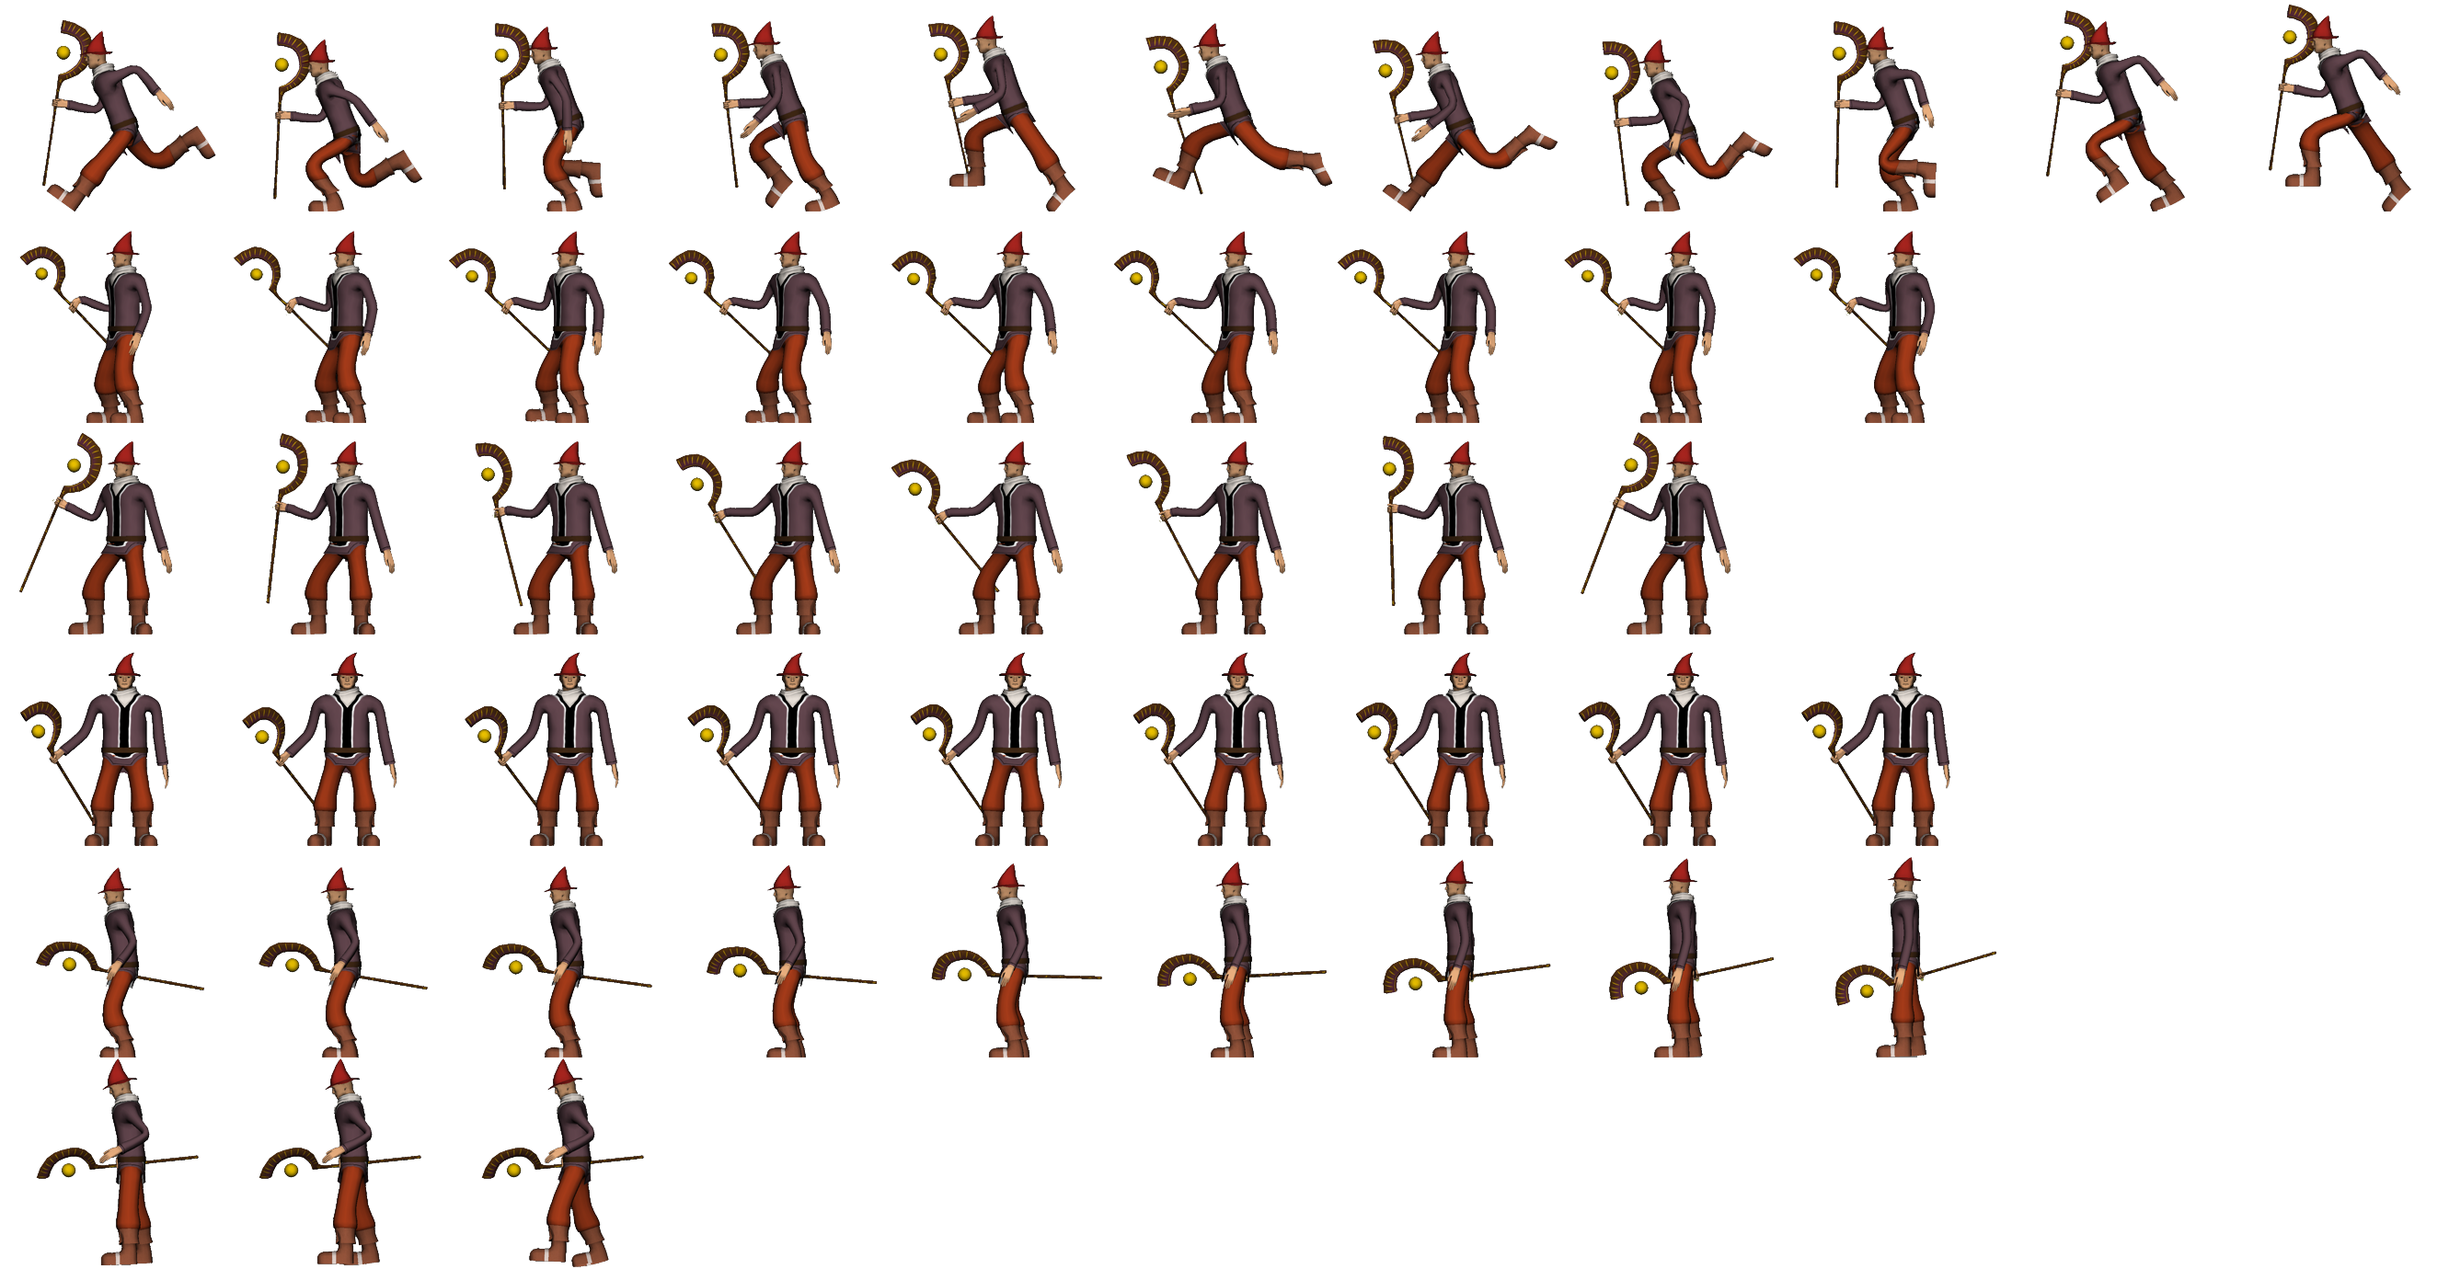
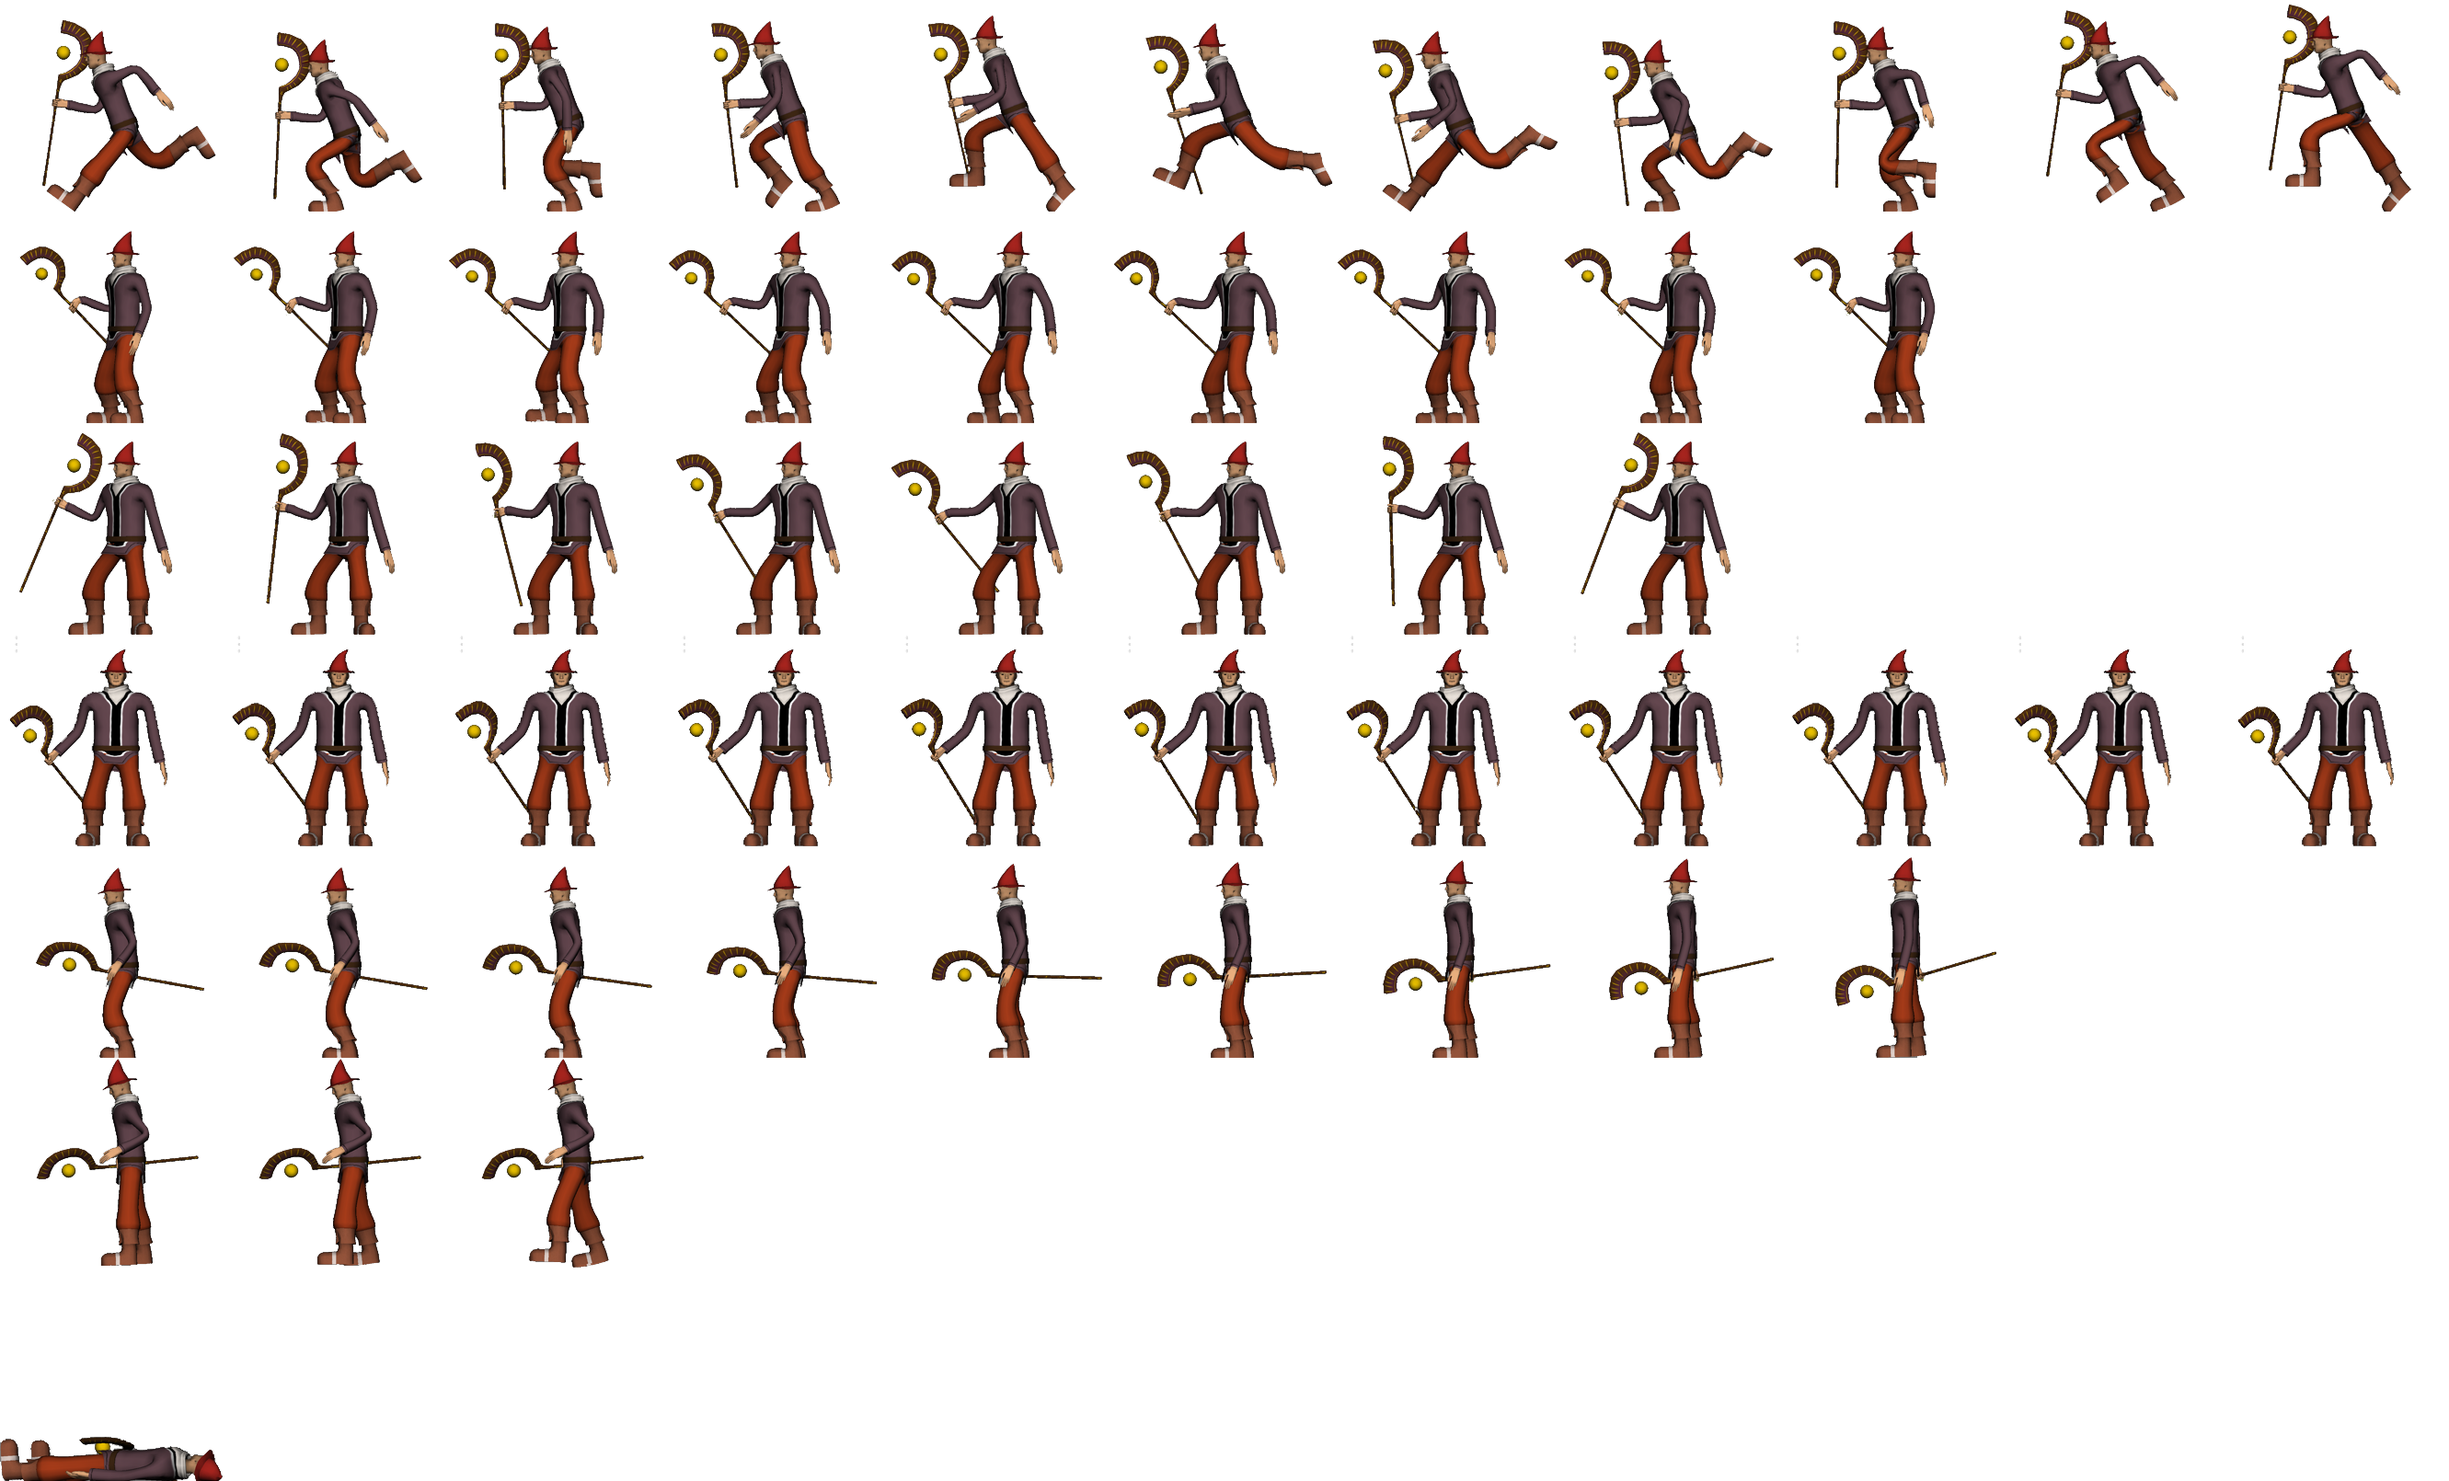
Updated mage animations, did UI, made projectiles not push things around, fixed an animation error with walking, did yeah

diff --git a/code/entities/PlayerCharacter.cs b/code/entities/PlayerCharacter.cs
@@ -21,6 +21,9 @@ namespace ForbiddenArtsGame.code.entities
 		double coolDownEnd;
 		Dictionary<string, Animation> sprites;
 		string currentSpriteName;
+		TimeSpan nextAttackAvailable;
+		Texture2D HealthSheet;
+		Texture2D SpellSheet;
 
 		public PlayerCharacter() : this(Vector2.Zero) {
 		}
@@ -37,10 +40,24 @@ namespace ForbiddenArtsGame.code.entities
 			sprites.Add("melee", new MageMelee());
 			sprites.Add("walk", new MageWalk());
 			SetCurrentAnimation("idle");
+
+			nextAttackAvailable = new TimeSpan(0);
+
+			HealthSheet = SheetHandler.getSheet("healthsheet");
+			SpellSheet = SheetHandler.getSheet("spelluisheet");
 		}
 
 		public override void Update(Microsoft.Xna.Framework.GameTime gameTime)
 		{
+			if (dead)
+			{
+				return;
+			}
+			if (health <= 0)
+			{
+				dead = true;
+				currentSprite = new MageDead();
+			}
 			base.Update(gameTime);
 			KeyboardState keyboard = Keyboard.GetState();
 
@@ -57,12 +74,10 @@ namespace ForbiddenArtsGame.code.entities
 				if (keyboard.IsKeyDown(Settings.keyMoveLeft))
 				{
 					this.Move(new Vector2(-0.7f, 0));
-					SetCurrentAnimation("walk");
 				}
 				if (keyboard.IsKeyDown(Settings.keyMoveRight))
 				{
                     this.Move(new Vector2(0.7f, 0));
-					SetCurrentAnimation("walk");
 				}
 				if (keyboard.IsKeyDown(Settings.keyJump) && onGround)
 				{
@@ -95,13 +110,17 @@ namespace ForbiddenArtsGame.code.entities
 			}
 			else
 			{
-				if (velocity.Length() <= 1)
+				if (velocity.Length() > 0.5f && currentSpriteName == "idle")
+				{
+					SetCurrentAnimation("walk");
+				}
+				else if (velocity.Length() <= 0.5f && currentSpriteName == "walk")
 				{
 					SetCurrentAnimation("idle");
 				}
 				else
 				{
-					if (((Animation)currentSprite).cycleNum >= 1)
+					if (((Animation)currentSprite).cycleNum >= 1 && currentSpriteName != "walk")
 						SetCurrentAnimation("idle");
 				}
 			}
@@ -122,6 +141,8 @@ namespace ForbiddenArtsGame.code.entities
 
 		protected virtual void Attack(GameTime gameTime)
 		{
+			if (gameTime.TotalGameTime < nextAttackAvailable)
+				return;
 			Vector2 projLoc;
 			Vector2 projVel;
 			if (Keyboard.GetState().IsKeyDown(Settings.keyMoveLeft))
@@ -141,6 +162,7 @@ namespace ForbiddenArtsGame.code.entities
 			}
 			toBeAdded.Add(new MeleeProjectile(projLoc, projVel, this));
 			SetCurrentAnimation("melee");
+			nextAttackAvailable = gameTime.TotalGameTime + new TimeSpan(0, 0, 1);
 		}
 
 		protected virtual void Cast(int spellButton)
@@ -168,6 +190,16 @@ namespace ForbiddenArtsGame.code.entities
 			return false;
 		}
 
-		
+		public override void Draw(GameTime gameTime)
+		{
+			base.Draw(gameTime);
+
+			Settings.spriteBatch.Draw(HealthSheet, new Rectangle(0, 0, 145, 156), new Rectangle(0, 0, 145, 156), Color.White);//background thing
+			Settings.spriteBatch.Draw(HealthSheet, new Rectangle(0, 27, 145, 126 * (health / 100)), new Rectangle(145, 27, 145, 126 * (health / 100)), Color.White);
+
+			Settings.spriteBatch.Draw(SpellSheet, new Rectangle(Settings.screenX - 144, 0, 144, 153), new Rectangle(0, 0, 144, 153), Color.White);//background thing
+			Settings.spriteBatch.Draw(SpellSheet, new Rectangle(Settings.screenX - 142, 27, 109, 102), new Rectangle(144, 0, 109, 102), Color.White);
+			Settings.spriteBatch.Draw(SpellSheet, new Rectangle(Settings.screenX - 119, 41, 100, 110), new Rectangle(253, 0, 100, 110), Color.White);
+		}
 	}
 }

diff --git a/code/images/MageAnimations.cs b/code/images/MageAnimations.cs
@@ -58,8 +58,13 @@ namespace ForbiddenArtsGame.code.images
 			firstFrameRect = new Rectangle(0, 690, 242, 230);
 			srcRect = new Rectangle(0, 690, 242, 230);
 			origin = new Vector2(121, 115);
-			frameCount = 9;
+			frameCount = 11;
 			image = SheetHandler.getSheet("characters/Mage");
+		}
+
+		public override void Draw(GameTime gameTime, Vector2 loc, float rotation = 0.0f, int facing = 0)
+		{
+			base.Draw(gameTime, loc, rotation, 0);
 		}
 	}
 
@@ -86,6 +91,19 @@ namespace ForbiddenArtsGame.code.images
 			origin = new Vector2(121, 115);
 			frameCount = 1;
 			currentFrame = -2;
+			image = SheetHandler.getSheet("characters/Mage");
+		}
+	}
+
+	class MageDead : Animation
+	{
+		public MageDead()
+			: base()
+		{
+			firstFrameRect = new Rectangle(0, 1380, 242, 230);
+			srcRect = new Rectangle(0, 1380, 242, 230);
+			origin = new Vector2(121, 115);
+			frameCount = 1;
 			image = SheetHandler.getSheet("characters/Mage");
 		}
 	}

diff --git a/code/entities/`Mobile.cs b/code/entities/`Mobile.cs
@@ -8,6 +8,7 @@ using Microsoft.Xna.Framework.GamerServices;
 using Microsoft.Xna.Framework.Graphics;
 using Microsoft.Xna.Framework.Input;
 using Microsoft.Xna.Framework.Media;
+using ForbiddenArtsGame.code.entities.projectiles;
 
 namespace ForbiddenArtsGame.code.entities
 {
@@ -23,6 +24,7 @@ namespace ForbiddenArtsGame.code.entities
 		protected Facing facing = Facing.Right;
 		protected Vector2 velocity = Vector2.Zero;
 		protected float updateVelMult = 0.95f;
+
 		public Mobile() : this(Vector2.Zero) { }
 		public Mobile(Vector2 loc) : base(loc) { }
 
@@ -79,6 +81,8 @@ namespace ForbiddenArtsGame.code.entities
 		public override void Collide(Entity e)
 		{
 			base.Collide(e);
+			if (this is Projectile || e is Projectile)
+				return;
 			if (isMobile)
 			{
 				switch (Collision(e.BoundingBox))

diff --git a/code/entities/Enemy_Melee.cs b/code/entities/Enemy_Melee.cs
@@ -27,9 +27,9 @@ namespace ForbiddenArtsGame.code.entities
 			Vector2 relativePlayerPosition = Settings.GetPositionFromCamera(loc);
 			if (hasSeen)
 			{
-				if (relativePlayerPosition.X > -250 && relativePlayerPosition.X < 50)
+				if (relativePlayerPosition.X > -270 && relativePlayerPosition.X < 70)
 					this.Attack();
-				else if (relativePlayerPosition.X >= 50)
+				else if (relativePlayerPosition.X >= 80)
 				{
 					this.Move(new Vector2(-0.5f, 0));
 				}

diff --git a/code/entities/`Character.cs b/code/entities/`Character.cs
@@ -15,7 +15,7 @@ namespace ForbiddenArtsGame.code.entities
 	abstract class Character : Mobile
 	{
 		public int health = 100;
-		public bool attacking = false;
+		protected bool dead = false;
 		public Rectangle attackRect { get { return new Rectangle(facing == Facing.Left ? (int)loc.X - currentSprite.sizeX : (int)loc.X, (int)loc.Y, currentSprite.sizeX, 1); } }
 
 		public Character() : this(Vector2.Zero) { }
